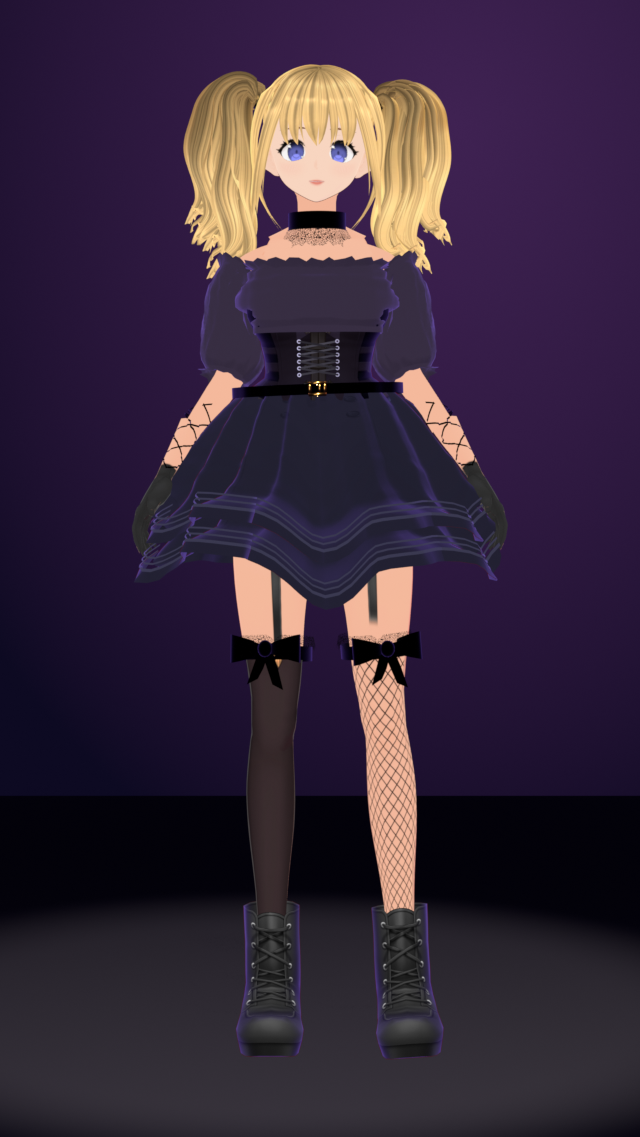
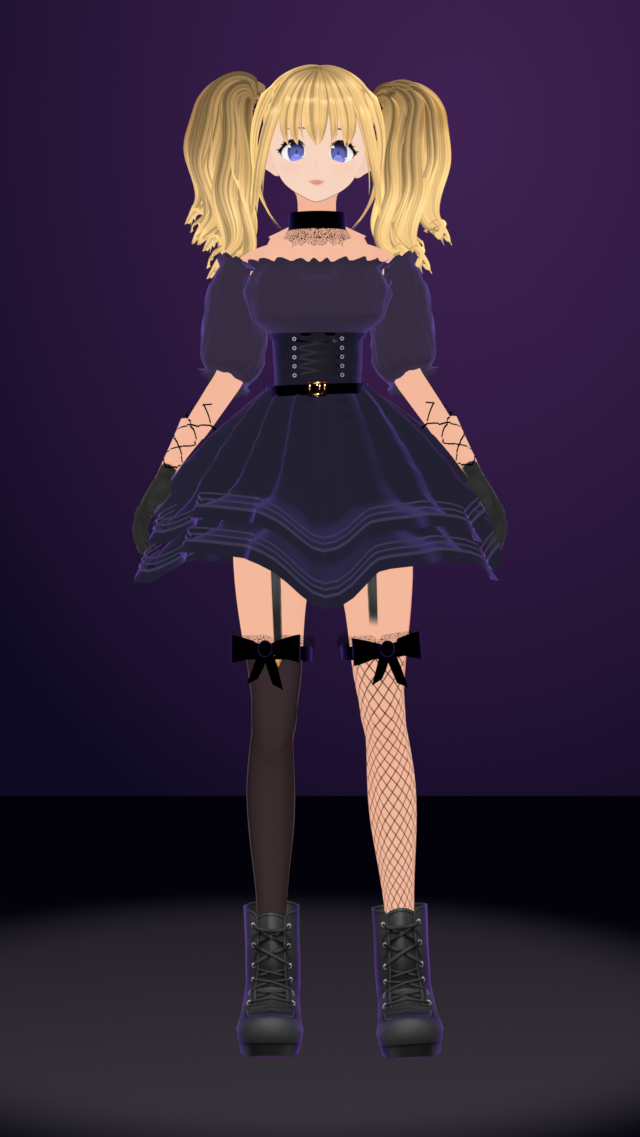
Goth agent: cinched waist, straight corset, blouse shaped as a bust
Measured at the same height as the reference, the corset was ~40% wider and
the belt ~70% wider. The torso is now narrowed by one smooth factor per
height (0.78 at the belt, 0.82 underbust, 0.88 across the bust, 1 under the
arms), so skin, corset and waistband stay nested and the blouse, belt,
lacing and skirt are built on the new shape.

- Corset: VRoid's flares at the bottom and at the bust cups are gone; it is
  a straight tube 8% wider at the top, cut clean at the underbust, with a
  flattened texture (its side straps read as stripes) and a top binding.
- Belt: follows the corset's outline 1 cm proud (it went round when it
  fell back to the widest point); the skirt's waistband tucks under it, so
  the skirt flares from the narrow waist.
- Blouse: shaped as a bust - tucked into the corset, round underneath,
  fullest a third of the way up, sloping back to the neckline - with its
  sides from the ribs' real outline. The loose VRoid blouse and the flat
  corset-top box under it are removed; they made it a box. Neckline
  gathers sampled finely enough not to alias into teeth.
- Lacing: five pairs of eyelets 8 cm apart, dark ribbon laid on the curved
  corset surface (straight ribbons cut through it and showed as stubs);
  the skin lacing gap becomes plain corset.

Claude-Session: https://claude.ai/code/session_011M9r3rTGgXhm4baeKDbpr3

Changed region(s): [[0.3438, 0.2155, 0.6875, 0.4617], [0.25, 0.3694, 0.3438, 0.4617], [0.7188, 0.431, 0.75, 0.4617]]

diff --git a/build/tools/blender-agent-refine.py b/build/tools/blender-agent-refine.py
@@ -67,6 +67,14 @@ p.add_argument('--tail-wave', type=float, default=0.008)
 p.add_argument('--stocking-top', type=float, default=0.0)   # 0 = detect from the skin texture
 p.add_argument('--thigh', type=float, default=0.10)         # extra thigh fullness (fraction, peaks mid-thigh)
 p.add_argument('--arm-out', type=float, default=8.0)        # raise the arms away from the body (degrees)
+p.add_argument('--waist', type=float, default=0.78)         # torso width at the belt line, as a fraction of VRoid's (1 = keep)
+p.add_argument('--waist-under', type=float, default=0.82)   # ... at the underbust line
+p.add_argument('--waist-bust', type=float, default=0.88)    # ... across the bust (the reference's ribcage is narrow); back to 1 under the arms
+p.add_argument('--waist-depth', type=float, default=0.4)    # how much of that cinch also applies front to back
+p.add_argument('--corset-taper', type=float, default=0.08)  # the corset is a straight tube this much wider at the top than at the belt
+p.add_argument('--bust-apex', type=float, default=0.32)     # fullest point of the blouse, as a fraction from the corset top to the neckline
+p.add_argument('--bust-slope', type=float, default=0.012)   # how far the front recedes from there to the neckline (m)
+p.add_argument('--bust-lobe', type=float, default=0.005)    # two rounded forms on the front instead of a flat panel (m)
 a = p.parse_args(sys.argv[sys.argv.index('--') + 1:])
 bpy.ops.wm.open_mainfile(filepath=a.blend)
 scene = bpy.context.scene
@@ -121,8 +129,10 @@ def lace_mat():
 LACE = lace_mat()
 NAVY_TRIM = pmat('Skirt trim', (26, 25, 38), rough=0.55)
 GOLD = pmat('Buckle gold', (230, 176, 84), rough=0.22, metal=1.0)
-SILVER = pmat('Grommet silver', (200, 200, 210), rough=0.3, metal=1.0)
-TOON = next(m for m in bpy.data.materials if 'N00_002_03_Tops_01_CLOTH_02' in m.name and not m.name.startswith('MToon Outline'))
+SILVER = pmat('Grommet silver', (170, 170, 182), rough=0.35, metal=1.0)
+RIBBON = pmat('Lacing ribbon', (16, 14, 20), rough=0.45, spec=0.35)   # a little sheen: satin read as white cord, matte vanished on the corset
+TOON = next(m for m in bpy.data.materials if 'N00_002_03_Tops_01_CLOTH_02' in m.name and not m.name.startswith('MToon Outline')).copy()
+TOON.name = 'N00_002_03_Tops_01_CLOTH_02 accessories'   # a copy: the corset's own texture is flattened below, the accessories keep the original
 
 def rgb_to_hsv(c):
     mx = c.max(1); mn = c.min(1); d = mx - mn; h = np.zeros_like(mx)
@@ -152,6 +162,11 @@ def darkest_uv(mat):
     img = lit_image(mat); W, H = img.size
     px = np.array(img.pixels[:], dtype=np.float32).reshape(H, W, 4)
     lum = px[..., :3].mean(-1) + (px[..., 3] < 0.9) * 9
+    y, x = np.unravel_index(np.argmin(lum), lum.shape); return ((x + 0.5) / W, (y + 0.5) / H)
+def mid_texel(mat):
+    img = lit_image(mat); W, H = img.size
+    px = np.array(img.pixels[:], dtype=np.float32).reshape(H, W, 4); op = px[..., 3] > 0.9
+    lum = np.abs(px[..., :3].mean(-1) - px[..., :3].mean(-1)[op].mean()) + (~op) * 9
     y, x = np.unravel_index(np.argmin(lum), lum.shape); return ((x + 0.5) / W, (y + 0.5) / H)
 def rigged(name, bm, mat, bone, uv=None):
     me = bpy.data.meshes.new(name); bm.to_mesh(me); bm.free()
@@ -287,6 +302,58 @@ for f in bm.faces:
     elif f.material_index in PETTI or f.material_index in TIE: kill.append(f)
     elif f.material_index in CORSET and c.z < SKIRT_TOP - 0.035: kill.append(f)
 bmesh.ops.delete(bm, geom=kill, context='FACES'); print('CUT', len(kill), 'faces')
+# waist: the reference's corset cinches to about half the shoulder width. Narrow everything in the torso -
+# skin, corset, skirt waistband, what is left of the blouse - by one smooth factor per height, so the
+# layers stay nested and the blouse, belt, lacing and skirt below are all built on the new shape.
+if a.waist != 1.0:
+    zlo = B['J_Bip_C_Hips'].head_local.z - 0.02; zw = SKIRT_TOP - 0.012
+    zu = a.underbust or zw + 0.09; zhi = AXZ - 0.06
+    knots = ((zlo, 1.0), (zw, a.waist), (zu, a.waist_under), (zu + 0.05, a.waist_bust), (zhi, 1.0))
+    def cinch(z):
+        if z <= knots[0][0] or z >= knots[-1][0]: return 1.0
+        for (z0, k0), (z1, k1) in zip(knots, knots[1:]):
+            if z0 <= z <= z1: t_ = (z - z0) / (z1 - z0); return k0 + (k1 - k0) * (0.5 - 0.5 * math.cos(math.pi * t_))
+    tv = [v for v in bm.verts if zlo < v.co.z < zhi and abs(v.co.x) < 0.2]
+    zb_ = np.arange(zlo, zhi + 0.01, 0.01); cyz = []
+    for z_ in zb_:
+        ys_ = [v.co.y for v in tv if abs(v.co.z - z_) < 0.01]; cyz.append((max(ys_) + min(ys_)) / 2 if ys_ else None)
+    cyz = [c if c is not None else next(q for q in cyz if q is not None) for c in cyz]
+    for v in tv:
+        k = cinch(v.co.z); ky = 1 - (1 - k) * a.waist_depth; c_ = float(np.interp(v.co.z, zb_, cyz))
+        v.co.x *= k; v.co.y = c_ + (v.co.y - c_) * ky
+    print('WAIST cinched %d verts:' % len(tv), ', '.join('%.2f at %.3f' % (k_, z_) for z_, k_ in knots))
+    # VRoid's corset flares out at the bottom (over the skirt's waistband) and again at the top (the bust cups start):
+    # make it a straight, slightly tapered tube from the belt to the underbust, the skin kept inside
+    cor_v = [v for v in {v for f in bm.faces if f.material_index in CORSET for v in f.verts}]; SKIN_ = mats('Body_00_SKIN')
+    ref_ = [v for v in cor_v if zw + 0.015 < v.co.z < zw + 0.045]
+    if ref_:
+        NA = 48; rr_ = np.full(NA, np.nan); c0_ = float(np.interp(zw, zb_, cyz))
+        for v in ref_:
+            k_ = int(((math.atan2(v.co.y - c0_, v.co.x) + math.pi) / (2 * math.pi)) * NA) % NA
+            rr_[k_] = np.nanmax([rr_[k_], math.hypot(v.co.x, v.co.y - c0_)])
+        ok_ = ~np.isnan(rr_); rr_ = np.interp(np.arange(NA), np.arange(NA)[ok_], rr_[ok_], period=NA); nc_ = ns_ = 0
+        def tube(v):
+            th_ = math.atan2(v.co.y - c0_, v.co.x)
+            r_ = float(np.interp((th_ + math.pi) / (2 * math.pi) * NA, np.arange(NA + 1), np.append(rr_, rr_[0])))
+            return r_ * (1 + a.corset_taper * min(1.0, max(0.0, (v.co.z - zw) / max(1e-4, zu - zw)))), math.hypot(v.co.x, v.co.y - c0_)
+        for v in cor_v:
+            if v.co.z < zu + 0.003:
+                lim, r_ = tube(v); lim += 0.001
+                if r_ > lim or v.co.z > zw + 0.015: v.co.x *= lim / r_; v.co.y = c0_ + (v.co.y - c0_) * lim / r_; nc_ += 1
+        cset_ = set(cor_v)
+        for v in tv:   # (a little higher at the front: VRoid's lacing gap is skin, level with the corset's top edge)
+            if v not in cset_ and zw < v.co.z < zu + (0.015 if v.co.y < c0_ else 0.003) and any(f.material_index in SKIN_ for f in v.link_faces):
+                lim, r_ = tube(v); lim -= 0.002
+                if r_ > lim: v.co.x *= lim / r_; v.co.y = c0_ + (v.co.y - c0_) * lim / r_; ns_ += 1
+        # that gap is bare skin; the reference's lacing shows plain corset behind it
+        cuv_ = mid_texel(me.materials[min(CORSET)]); ng_ = 0
+        for f in bm.faces:
+            c_ = f.calc_center_median()
+            if f.material_index in SKIN_ and zw - 0.005 < c_.z < zu + 0.012 and c_.y < c0_ and abs(c_.x) < 0.1:
+                f.material_index = min(CORSET); ng_ += 1
+                for l in f.loops: l[bm.loops.layers.uv.active].uv = cuv_
+        print('CORSET lacing gap: %d skin faces -> corset' % ng_)
+        print('CORSET straight tube: %d verts (r %.3f..%.3f at the belt, +%d%% at the top), %d skin verts pulled inside' % (nc_, rr_.min(), rr_.max(), 100 * a.corset_taper, ns_))
 if a.underbust:
     src = me.materials[min(CORSET)]; bod = src.copy(); bod.name = 'Bodice navy'
     img = lit_image(bod).copy(); img.name = 'Bodice flat'
@@ -400,15 +467,14 @@ for side, tag in ((1, 'L'), (-1, 'R')):
     if not a.vroid_sleeves:
         OWN_SLEEVES.append((side, tag, centre_at))
 
-def mid_texel(mat):
-    img = lit_image(mat); W, H = img.size
-    px = np.array(img.pixels[:], dtype=np.float32).reshape(H, W, 4); op = px[..., 3] > 0.9
-    lum = np.abs(px[..., :3].mean(-1) - px[..., :3].mean(-1)[op].mean()) + (~op) * 9
-    y, x = np.unravel_index(np.argmin(lum), lum.shape); return ((x + 0.5) / W, (y + 0.5) / H)
 SLEEVE_MAT = me.materials[BOD_I] if a.underbust else me.materials[min(BLOUSE)]
 SLEEVE_UV = mid_texel(SLEEVE_MAT)
 if not a.vroid_sleeves and a.underbust:   # what is left of VRoid's blouse is its upper-back panel: make it the blouse navy
     nbp = nsk = 0; zn_ = AXZ - a.neckline_drop; COLLAR_F = []
+    if a.blouse:   # the loose VRoid blouse under the fitted one stood 2 cm off the ribs and set its width: drop what it covers
+        gone = [f for f in bm.faces if f.material_index in BLOUSE and max(v.co.z for v in f.verts) < zn_ - 0.004
+                and min(v.co.z for v in f.verts) > (a.underbust or 0) - 0.03]
+        bmesh.ops.delete(bm, geom=gone, context='FACES'); print('BLOUSE under the fitted one:', len(gone), 'faces removed')
     for f in bm.faces:
         if f.material_index in BLOUSE:
             if max(v.co.z for v in f.verts) > zn_ - 0.004 and skin_uv is not None:   # VRoid's stand collar behind the neck: skin, so the
@@ -510,6 +576,8 @@ prof = [sum(b) / len(b) if b else None for b in bins]
 for i in range(21):
     if prof[i] is None: prof[i] = prof[i - 1]
 r0 = prof[0]
+_cr = [math.hypot(v.co.x, v.co.y - cy) for v in {v for f in bm.faces if f.material_index in CORSET for v in f.verts} if abs(v.co.z - (ztop - 0.012)) < 0.012]
+if _cr: r0 = min(r0, sum(_cr) / len(_cr) - 0.002)     # the waistband tucks under the belt, at the corset's width
 def pleat(th, phase):          # knife pleat: slow rise, sharp fold, in [-0.5, 0.5]
     f = ((a.pleats * th + phase) / (2 * math.pi)) % 1.0     # rounded pleats: a sawtooth shows as teeth on the silhouette
     return 0.5 * math.sin(2 * math.pi * f) + 0.12 * math.sin(4 * math.pi * f)
@@ -535,9 +603,15 @@ for ti, (vs, lenfac, roff) in enumerate(tiers): remap(vs, lenfac, roff, phase=0.
 # plain fabric: a flattened copy of the skirt texture (drops the buttons and panel seams)
 skm = me.materials[min(SKIRT)]; simg = lit_image(skm); fimg = simg.copy(); fimg.name = 'Skirt flat'
 fpx = np.array(fimg.pixels[:], dtype=np.float32).reshape(-1, 4); h_, s_, v_ = rgb_to_hsv(fpx[:, :3]); op = fpx[:, 3] > 0.5
-v_ = v_ * 0.3 + 0.7 * v_[op].mean(); fpx[:, :3] = hsv_to_rgb(h_, s_ * 0.5, v_); fimg.pixels[:] = fpx.ravel(); fimg.pack()
-for n_ in skm.node_tree.nodes:
-    if n_.type == 'TEX_IMAGE' and n_.image == simg: n_.image = fimg
+v_ = v_ * 0.15 + 0.85 * v_[op].mean(); fpx[:, :3] = hsv_to_rgb(h_, s_ * 0.5, v_); fimg.pixels[:] = fpx.ravel(); fimg.pack()   # (0.3 left the buttons)
+def relink(key, old, new):
+    """Point every material of this cloth at the new image - its MToon outline shell too, which carries its own
+    copy of the texture (the accessories' copy of the corset keeps the original)."""
+    for m_ in bpy.data.materials:
+        if key in m_.name and m_ is not TOON and m_.node_tree:
+            for n_ in m_.node_tree.nodes:
+                if n_.type == 'TEX_IMAGE' and n_.image == old: n_.image = new
+relink('N00_002_03_Tops_01_CLOTH_01', simg, fimg)
 def texel_uv(mat, target):
     img = lit_image(mat); W, H = img.size
     px = np.array(img.pixels[:], dtype=np.float32).reshape(H, W, 4)
@@ -592,6 +666,11 @@ for edges in hems:
     ruffle(edges, a.ruffle, 90)
     band(edges, 0.0, 0.005); band(edges, 0.012, 0.003); band(edges, 0.022, 0.003)
 print('TRIM faces', nt)
+# plain corset: VRoid painted side straps with buckles into it, which read as stripes from the front
+cm_ = me.materials[min(CORSET)]; cimg = lit_image(cm_); fimg = cimg.copy(); fimg.name = 'Corset flat'
+fpx = np.array(fimg.pixels[:], dtype=np.float32).reshape(-1, 4); h_, s_, v_ = rgb_to_hsv(fpx[:, :3]); op = fpx[:, 3] > 0.5
+v_ = v_ * 0.2 + 0.8 * v_[op].mean(); fpx[:, :3] = hsv_to_rgb(h_, s_ * 0.5, v_); fimg.pixels[:] = fpx.ravel(); fimg.pack()
+relink('N00_002_03_Tops_01_CLOTH_02', cimg, fimg)
 print('SKIRT top %.3f bot %.3f r0 %.3f cy %.3f' % (ztop, zbot, r0, cy))
 bm.to_mesh(me); me.update()
 
@@ -601,30 +680,49 @@ if a.blouse and a.underbust:
     zb0 = a.underbust; zn = AXZ - a.neckline_drop
     keep = set().union(CORSET, BLOUSE, {BOD_I}, mats('Body_00_SKIN'))
     src = sorted({i for p_ in me.polygons if p_.material_index in keep for i in p_.vertices
-                  if abs(me.vertices[i].co.x) < X0 - 0.005 and zb0 - 0.02 < me.vertices[i].co.z < zn + 0.02})
+                  if abs(me.vertices[i].co.x) < (0.2 if me.vertices[i].co.z < AXZ - 0.075 else X0 - 0.005)   # the ribs' real sides below
+                  and zb0 - 0.02 < me.vertices[i].co.z < zn + 0.02})                                            # the armpit (else guessed)
     cyB = sum(me.vertices[i].co.y for i in src) / len(src)
     EXTRA = [c for c in globals().get('COLLAR_CO', []) if abs(c.x) < X0 - 0.005 and zb0 - 0.02 < c.z < zn + 0.02]   # the skin collar must stay inside
-    NB, rows_z = 72, list(np.arange(zb0, zn + 1e-6, 0.006))
+    NB, rows_z = 156, [zb0 - 0.004] + list(np.arange(zb0, zn + 1e-6, 0.006))   # 156 around: fewer and the gathers alias into teeth
+    TH = -np.pi + 2 * np.pi * np.arange(NB) / NB
+    def outline(pts, fill=True):
+        """Largest radius per angle; gaps interpolated (fill) or left NaN."""
+        o = np.full(NB, np.nan)
+        if pts:
+            ang = np.array([math.atan2(q.y - cyB, q.x) for q in pts]); rad = np.array([math.hypot(q.x, q.y - cyB) for q in pts])
+            for k in range(NB):
+                sel = rad[np.abs((ang - TH[k] + math.pi) % (2 * math.pi) - math.pi) < 0.2]
+                if len(sel): o[k] = sel.max()
+        good = ~np.isnan(o)
+        return np.interp(np.arange(NB), np.arange(NB)[good], o[good], period=NB) if fill and good.any() else o
     R = np.zeros((len(rows_z), NB))
     for ri, zr in enumerate(rows_z):
-        pts = [me.vertices[i].co for i in src if abs(me.vertices[i].co.z - zr) < 0.012] + [c for c in EXTRA if abs(c.z - zr) < 0.012]
-        ang = np.array([math.atan2(q.y - cyB, q.x) for q in pts]); rad = np.array([math.hypot(q.x, q.y - cyB) for q in pts])
-        for k in range(NB):
-            th = -math.pi + 2 * math.pi * k / NB; dth = np.abs((ang - th + math.pi) % (2 * math.pi) - math.pi)
-            sel = rad[dth < 0.2]; R[ri, k] = sel.max() if len(sel) else np.nan
-        row = R[ri]; good = ~np.isnan(row)
-        R[ri] = np.interp(np.arange(NB), np.arange(NB)[good], row[good], period=NB) if good.any() else R[ri - 1]
-    R0 = R.copy()
+        R[ri] = outline([me.vertices[i].co for i in src if abs(me.vertices[i].co.z - zr) < 0.012] + [c for c in EXTRA if abs(c.z - zr) < 0.012])
     for _ in range(2):   # smooth around and up
         R = (np.roll(R, 1, 1) + 2 * R + np.roll(R, -1, 1)) / 4
         R[1:-1] = (R[:-2] + 2 * R[1:-1] + R[2:]) / 4
-    R = np.maximum(R, R0)                                  # smooth, but never inside the body (it z-fought the skin)
+    # VRoid's corset top under all this is a flat box over the bust; the blouse is shaped as a bust instead and
+    # the box is removed below. Kept outside the skin, and tucked into the corset's top edge.
+    SKV_ = {i for p_ in me.polygons if p_.material_index in mats('Body_00_SKIN') for i in p_.vertices}
+    RC = outline([me.vertices[i].co for p_ in me.polygons if p_.material_index in CORSET for i in p_.vertices if zb0 - 0.02 < me.vertices[i].co.z < zb0 + 0.002])
+    zA = zb0 + a.bust_apex * (zn - zb0); FR = np.maximum(0.0, -np.sin(TH))            # 1 at the front centre, 0 at the sides
+    LOBE = sum(np.exp(-((TH + np.pi / 2 - c_) / 0.42) ** 2) for c_ in (-0.5, 0.5)) - 0.5 * np.exp(-((TH + np.pi / 2) / 0.16) ** 2)
+    for ri, zr in enumerate(rows_z):
+        f_ = max(0.0, (zr - zb0) / max(1e-4, zn - zb0)); m_ = 0.006 + 0.005 * f_; t_ = (zr - zb0) / max(1e-4, zA - zb0)
+        if t_ < 0: r_ = RC - 0.001                                                         # tucked into the corset
+        elif t_ < 1: r_ = RC + 0.0015 + (R[ri] + m_ - RC - 0.0015) * math.sin(math.pi / 2 * t_) ** 0.55   # round underside of the bust
+        else: r_ = R[ri] + m_ - a.bust_slope * FR ** 1.5 * (zr - zA) / max(1e-4, zn - zA)   # the upper chest slopes back to the neckline
+        r_ = r_ + a.bust_lobe * LOBE * FR * math.exp(-((zr - zA) / 0.035) ** 2)
+        sk_ = outline([me.vertices[i].co for i in SKV_ if abs(me.vertices[i].co.z - zr) < 0.008 and abs(me.vertices[i].co.x) < X0]
+                      + [c for c in EXTRA if abs(c.z - zr) < 0.008], fill=False)
+        R[ri] = np.where(np.isnan(sk_), r_, np.maximum(r_, sk_ + 0.004)) if t_ >= 0 else r_
     bb2 = bmesh.new(); vrows = []
     for ri, zr in enumerate(rows_z):
-        f_ = (zr - zb0) / max(1e-4, zn - zb0); vr = []
+        f_ = max(0.0, (zr - zb0) / max(1e-4, zn - zb0)); vr = []
         for k in range(NB):
-            th = -math.pi + 2 * math.pi * k / NB
-            r = R[ri, k] + (0.006 + 0.005 * f_ if zr > zb0 + 0.012 else 0.001) + 0.004 * max(0.0, math.sin(20 * th)) * f_ ** 1.5   # gathers toward the top, only outward
+            th = TH[k]
+            r = R[ri, k] + 0.004 * max(0.0, math.sin(20 * th)) * f_ ** 1.5   # gathers toward the top, only outward
             vr.append(bb2.verts.new((r * math.cos(th), cyB + r * math.sin(th), zr)))
         vrows.append(vr)
     for ri in range(len(vrows) - 1):
@@ -649,7 +747,26 @@ if a.blouse and a.underbust:
         co_, idx, dist = kdb.find(v.co)
         for gr in me.vertices[idx].groups: bob.vertex_groups[gr.group].add([v.index], gr.weight, 'REPLACE')
     bob.parent = arm; bob.modifiers.new('Armature', 'ARMATURE').object = arm
-    print('BLOUSE %d rows, z %.3f -> %.3f' % (len(rows_z), zb0, zn))
+    print('BLOUSE %d rows, z %.3f -> %.3f, fullest at %.3f' % (len(rows_z), zb0, zn, zA))
+    # the corset's top edge over the blouse: a narrow black binding
+    cb2 = bmesh.new(); lo_, hi_ = [], []
+    for k in range(NB):
+        for lst, dz, dr in ((lo_, -0.005, 0.003), (hi_, 0.004, 0.0035)):
+            r = RC[k] + dr; lst.append(cb2.verts.new((r * math.cos(TH[k]), cyB + r * math.sin(TH[k]), zb0 + dz)))
+    for k in range(NB):
+        k2 = (k + 1) % NB; cb2.faces.new((lo_[k], lo_[k2], hi_[k2], hi_[k]))
+    cbo = rigged('Corset top edge', cb2, TOON, 'J_Bip_C_Spine'); cbo.vertex_groups.clear()
+    for g in body.vertex_groups: cbo.vertex_groups.new(name=g.name)
+    for v in cbo.data.vertices:
+        co_, idx, dist = kdb.find(v.co)
+        for gr in me.vertices[idx].groups: cbo.vertex_groups[gr.group].add([v.index], gr.weight, 'REPLACE')
+    bmb = bmesh.new(); bmb.from_mesh(me)
+    cf_ = [f for f in bmb.faces if f.material_index == BOD_I or f.material_index in CORSET]   # cut the corset clean at the underbust
+    bmesh.ops.bisect_plane(bmb, geom=cf_ + list({e for f in cf_ for e in f.edges}) + list({v for f in cf_ for v in f.verts}),
+                           plane_co=(0, 0, zb0), plane_no=(0, 0, 1), clear_outer=True)            # (a ragged top stood proud of the blouse)
+    box = [f for f in bmb.faces if f.material_index == BOD_I]
+    bmesh.ops.delete(bmb, geom=box, context='FACES'); bmb.to_mesh(me); bmb.free(); me.update()
+    print('BODICE box under the blouse removed: corset cut at %.3f, %d faces left over' % (zb0, len(box)))
 
 # ------------------------------------------------------------------ 3. twin tails
 hb = bmesh.new(); hb.from_mesh(hair.data); hb.verts.ensure_lookup_table()
@@ -870,12 +987,17 @@ zb = ztop - 0.012
 SKV = {i for p_ in me.polygons if p_.material_index in SKIRT for i in p_.vertices}
 CV = {i for p_ in me.polygons if p_.material_index in CORSET for i in p_.vertices}
 # the belt follows the corset's real cross-section at its height (an ellipse cuts in at the front)
-bpts = [me.vertices[i].co for i in (CV | SKV) if abs(me.vertices[i].co.z - zb) < 0.012]
+bpts = [me.vertices[i].co for i in CV if abs(me.vertices[i].co.z - zb) < 0.020]   # the corset alone: the skirt flares out below the belt
+if len(bpts) < 12: print('BELT: too little corset at %.3f, using the skirt too' % zb); bpts = [me.vertices[i].co for i in (CV | SKV) if abs(me.vertices[i].co.z - zb) < 0.012]
 bc = Vector((0, sum(q.y for q in bpts) / len(bpts), 0))
 angs = sorted((math.atan2(q.y - bc.y, q.x), math.hypot(q.x, q.y - bc.y)) for q in bpts)
 def belt_r(th, win=0.20):
     near = [r_ for t_, r_ in angs if abs(math.remainder(t_ - th, 2 * math.pi)) < win]
-    return (max(near) if near else max(r_ for _, r_ in angs)) + 0.005
+    if near: return max(near) + 0.010                       # the belt sits on the skirt's gathered waistband, a little proud of the corset
+    lo = max((q for q in angs), key=lambda q: math.remainder(q[0] - th, 2 * math.pi) if math.remainder(q[0] - th, 2 * math.pi) < 0 else -9)
+    hi = min((q for q in angs), key=lambda q: math.remainder(q[0] - th, 2 * math.pi) if math.remainder(q[0] - th, 2 * math.pi) > 0 else 9)
+    d0, d1 = -math.remainder(lo[0] - th, 2 * math.pi), math.remainder(hi[0] - th, 2 * math.pi)   # no corset point this way: interpolate
+    return lo[1] + (hi[1] - lo[1]) * d0 / max(1e-6, d0 + d1) + 0.010                           # (the widest one made the belt round)
 bb = bmesh.new(); NB = 72; top_, bot_ = [], []
 for i in range(NB):
     th = 2 * math.pi * i / NB; r_ = belt_r(th)
@@ -944,11 +1066,11 @@ cor_faces = [p_ for p_ in me.polygons if p_.material_index in CORSET]
 if cor_faces:
     from mathutils.bvhtree import BVHTree as _B
     cbvh = _B.FromPolygons([v.co for v in me.vertices], [p_.vertices for p_ in cor_faces])
-    zc0 = ztop + 0.012; zc1 = (a.underbust or ztop + 0.10) - 0.004; n_ = 7
+    zc0 = ztop + 0.012; zc1 = (a.underbust or ztop + 0.10) - 0.010; n_ = 5
     def front(x, z):
         loc, nrm, fi, d = cbvh.ray_cast(Vector((x, -0.6, z)), Vector((0, 1, 0)))
         return (loc + Vector((0, -0.004, 0))) if loc else None
-    cols = {sgn: [front(sgn * 0.032, zc0 + (zc1 - zc0) * i / (n_ - 1)) for i in range(n_)] for sgn in (-1, 1)}
+    cols = {sgn: [front(sgn * 0.040, zc0 + (zc1 - zc0) * i / (n_ - 1)) for i in range(n_)] for sgn in (-1, 1)}
     if all(p_ is not None for sgn in cols for p_ in cols[sgn]):
         gb_ = bmesh.new()
         for sgn in cols:
@@ -958,14 +1080,18 @@ if cor_faces:
                 for v_ in ring_v + inner: v_.co = Vector((c_.x + v_.co.x, c_.y - 0.0005, c_.z + v_.co.y))
                 for i_ in range(10): gb_.faces.new((ring_v[i_], ring_v[(i_ + 1) % 10], inner[(i_ + 1) % 10], inner[i_]))
         rigged('Corset grommets', gb_, SILVER, 'J_Bip_C_Spine')
-        lb_ = bmesh.new(); w_ = 0.0016
+        lb_ = bmesh.new(); w_ = 0.0018
+        def on_corset(q, lift):   # the corset front is curved: a straight ribbon between eyelets cut through it
+            loc, nrm, fi, d = cbvh.ray_cast(Vector((q.x, -0.6, q.z)), Vector((0, 1, 0)))
+            return (loc + nrm * lift) if loc else q
         for i_ in range(n_ - 1):
             for sgn in (-1, 1):
-                p0, p1 = cols[sgn][i_], cols[-sgn][i_ + 1]; d_ = (p1 - p0).normalized(); side_ = d_.cross(Vector((0, -1, 0))).normalized() * w_
-                q = [lb_.verts.new(p0 - side_ + Vector((0, -0.0015 * (sgn > 0), 0))), lb_.verts.new(p0 + side_ + Vector((0, -0.0015 * (sgn > 0), 0))),
-                     lb_.verts.new(p1 + side_ + Vector((0, -0.0015 * (sgn > 0), 0))), lb_.verts.new(p1 - side_ + Vector((0, -0.0015 * (sgn > 0), 0)))]
-                lb_.faces.new(q)
-        rigged('Corset lacing', lb_, SATIN, 'J_Bip_C_Spine'); print('CORSET LACING', n_, 'rows from %.3f to %.3f' % (zc0, zc1))
+                p0, p1 = cols[sgn][i_], cols[-sgn][i_ + 1]; lift = 0.0028 if sgn > 0 else 0.0018   # one ribbon over the other where they cross
+                d_ = (p1 - p0).normalized(); side_ = d_.cross(Vector((0, -1, 0))).normalized() * w_
+                pairs = [(lb_.verts.new(on_corset(p0.lerp(p1, t_) - side_, lift)), lb_.verts.new(on_corset(p0.lerp(p1, t_) + side_, lift)))
+                         for t_ in np.linspace(0, 1, 14)]
+                for (a0, a1), (b0, b1) in zip(pairs, pairs[1:]): lb_.faces.new((a0, a1, b1, b0))
+        rigged('Corset lacing', lb_, RIBBON, 'J_Bip_C_Spine'); print('CORSET LACING', n_, 'rows from %.3f to %.3f' % (zc0, zc1))
     else: print('CORSET LACING skipped: front not found')
 
 # forearm lacing: two crossing helices of black ribbon from the wrist up the forearm

diff --git a/design/blender/agent/README.md b/design/blender/agent/README.md
@@ -134,22 +134,41 @@ reference picture:
   and gathers into a cuff above the elbow, sized off the arm profile. It
   has a ruffle on its top edge and on the cuff, in the blouse navy.
   `--vroid-sleeves` keeps and puffs VRoid's sleeve instead.
-- **Blouse**: the corset above the underbust line becomes navy, and a
-  fitted gathered blouse is built over the upper torso: its shape is the
-  largest radius of the torso at each height and angle (so it bridges the
-  bust like cloth), from under the corset's top edge to a straight
-  off-shoulder neckline with a ruffle. What is left of VRoid's blouse, its
-  upper-back panel, is recoloured to the same navy. The black corset then
-  reads as an underbust piece over the blouse, with silver eyelets in two
-  columns and criss-cross lacing.
+- **Waist**: the reference's corset cinches to about half the shoulder
+  width, and VRoid's torso was 30-40% wider there. Every vertex of the
+  torso (skin, corset, the skirt's waistband) is narrowed by one smooth
+  factor per height - 0.78 at the belt, 0.82 at the underbust, 0.88
+  across the bust, back to 1 under the arms - so the layers stay nested
+  and everything built afterwards follows. Only 40% of it applies front
+  to back, which leaves the waist round rather than flat.
+- **Blouse**: a fitted gathered blouse is built over the upper torso,
+  shaped as a bust: tucked into the corset's top edge, a round underside,
+  fullest a third of the way up with two soft forms on the front, then
+  sloping back to a straight off-shoulder neckline with a ruffle. Its
+  sides come from the ribs' real outline; guessing them from the front
+  made the old blouse a box. Everything VRoid had under it goes: the
+  loose long-sleeve blouse (it stood 2 cm off the ribs) and the corset's
+  flat top panel, cut clean at the underbust line. The black corset then
+  reads as an underbust piece over the blouse, with a narrow binding on
+  its top edge.
 - **Skirt**: the bell skirt is subdivided and becomes two layers of 16
   rounded pleats flaring from the belt (a knife-pleat sawtooth shows as
   teeth on the silhouette; layers in step so the outer nests), with six handkerchief points, a gathered
   frill under each hem and three rows of navy piping; its buttons and panel seams are flattened out of the
   texture and the white petticoat is dropped.
-- **Corset and belt**: silver grommets and a criss-cross lacing down the
-  front; the belt follows the corset's real cross-section with a small
-  gold buckle.
+- **Corset and belt**: VRoid's corset flares out at the bottom (over the
+  skirt's waistband) and at the top (where its bust cups start); it is
+  now a straight tube 8% wider at the top than at the belt, with the skin
+  kept inside, and its texture is flattened so the side straps VRoid
+  painted on it do not read as stripes. The flattened textures are also
+  given to each cloth's MToon outline shell, which carries its own copy of
+  the texture. Five pairs of silver eyelets 8 cm apart hold a dark lacing
+  laid on the corset's curved surface (straight ribbons between eyelets
+  cut through it and showed only as stubs). The lacing gap at the front,
+  which VRoid leaves as bare skin, becomes plain corset. The belt follows the corset's outline 1 cm proud
+  of it, as it sits on the skirt's gathered waistband, and the skirt's
+  waistband tucks under the belt at the corset's width, so the skirt
+  flares from the narrow waist.
 - **Shading**: cloth cel shading is softened (VRoid ships it nearly hard)
   so pleats and gathers read, and the hair gets a warm ochre shade. The
   MToon rim light, which the VRM carries, is set warm gold on the hair and
